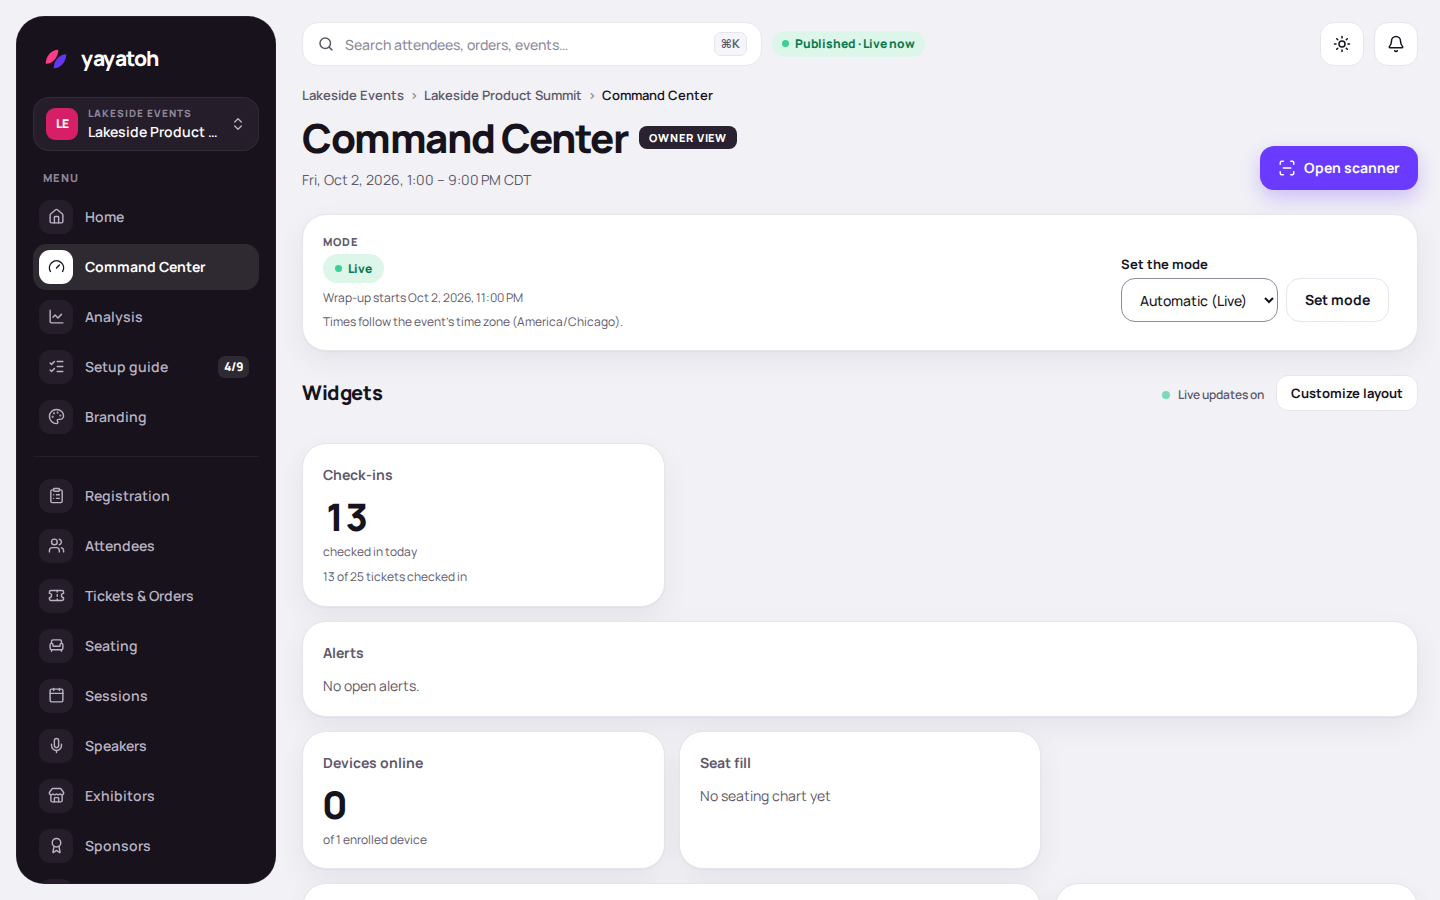
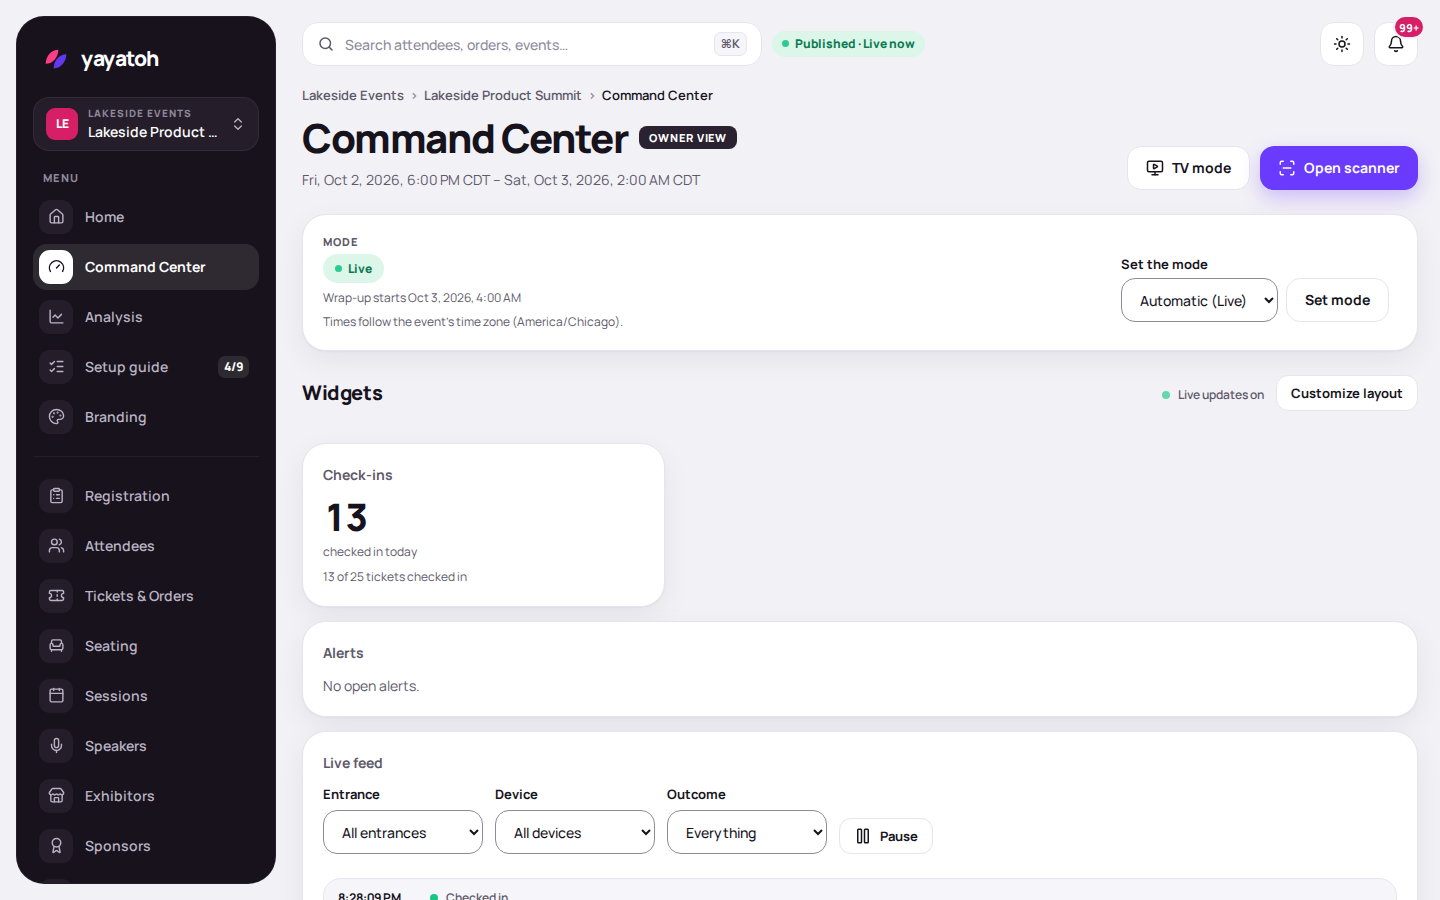
Design v2: report (screenshots, batches 3f/3g on v2, e2e fixes)
SCREENSHOTS (docs/design/system-v2/screenshots/, README.md lists each)
Built app, Playwright on the Chromium headless shell, light and dark via the yy_theme cookie;
1440x900, public pages also 390x844. Dev personas and synthetic data only (a dev event live
now with 10 test orders through the fake provider, about half checked in; wedding guests via
the paste import).
- 01-command-center-{light,dark}: Command Center during a live event (re-shot after 3g)
- 02-event-guests-{light,dark}: event workspace, Guests tab
- 03-public-event[-phone]-{light,dark}: public event page with the ticket box
- 04-checkout[-phone]-{light,dark}: checkout, the payment step
- 05-org-home-{light,dark}: org home
- 06-sign-in[-phone]-{light,dark}: sign-in
- 07-scan-pwa[-phone]-{light,dark}: Scan PWA after a successful scan
- 08-command-center-arabic-{light,dark}: Arabic RTL Command Center (re-shot after 3g)
- 09-style-guide-{light,dark}: /dev/design, top section
- 10-tv-board-1920: TV mode board (3g), always dark
Fixed on the way: the Scan PWA ticket-code field was squeezed on phones; it now takes the
full row under 640 px with the two buttons sharing the next one.

3F/3G SCREENS MOVED TO V2
- Speaker and exhibitor portals: PortalFrame (glass top bar with the event mark and name,
  sections as dark-tag links with aria-current, theme switch, sign out; PageHeader with event
  tag and dates) and PortalAuthFrame for invitation, sign-in and magic-link pages (AuthBar plus
[…]

diff --git a/docs/design/system-v2/screenshots/README.md b/docs/design/system-v2/screenshots/README.md
@@ -18,5 +18,7 @@ guests were pasted through the guest import. No real data.
 | 7 | Scan PWA, a paired device right after a successful scan ("Welcome in") | `07-scan-pwa-light.png` | `07-scan-pwa-dark.png` | `07-scan-pwa-phone-light.png` / `07-scan-pwa-phone-dark.png` |
 | 8 | Command Center in Arabic (RTL: sidebar on the right) | `08-command-center-arabic-light.png` | `08-command-center-arabic-dark.png` | — |
 | 9 | Living style guide `/dev/design` (top section; development builds only) | `09-style-guide-light.png` | `09-style-guide-dark.png` | — |
+| 10 | TV mode: the venue-screen board (always dark), 1920×1080 (batch 3g) | — | `10-tv-board-1920.png` | — |
 
-Each image is the first screen (above the fold), not the full page.
+Each image is the first screen (above the fold), not the full page. Shots 1 and 8 were
+re-captured on 2026-10-03 after batches 3f/3g landed on v2 (live mode: TV mode button, live feed).
